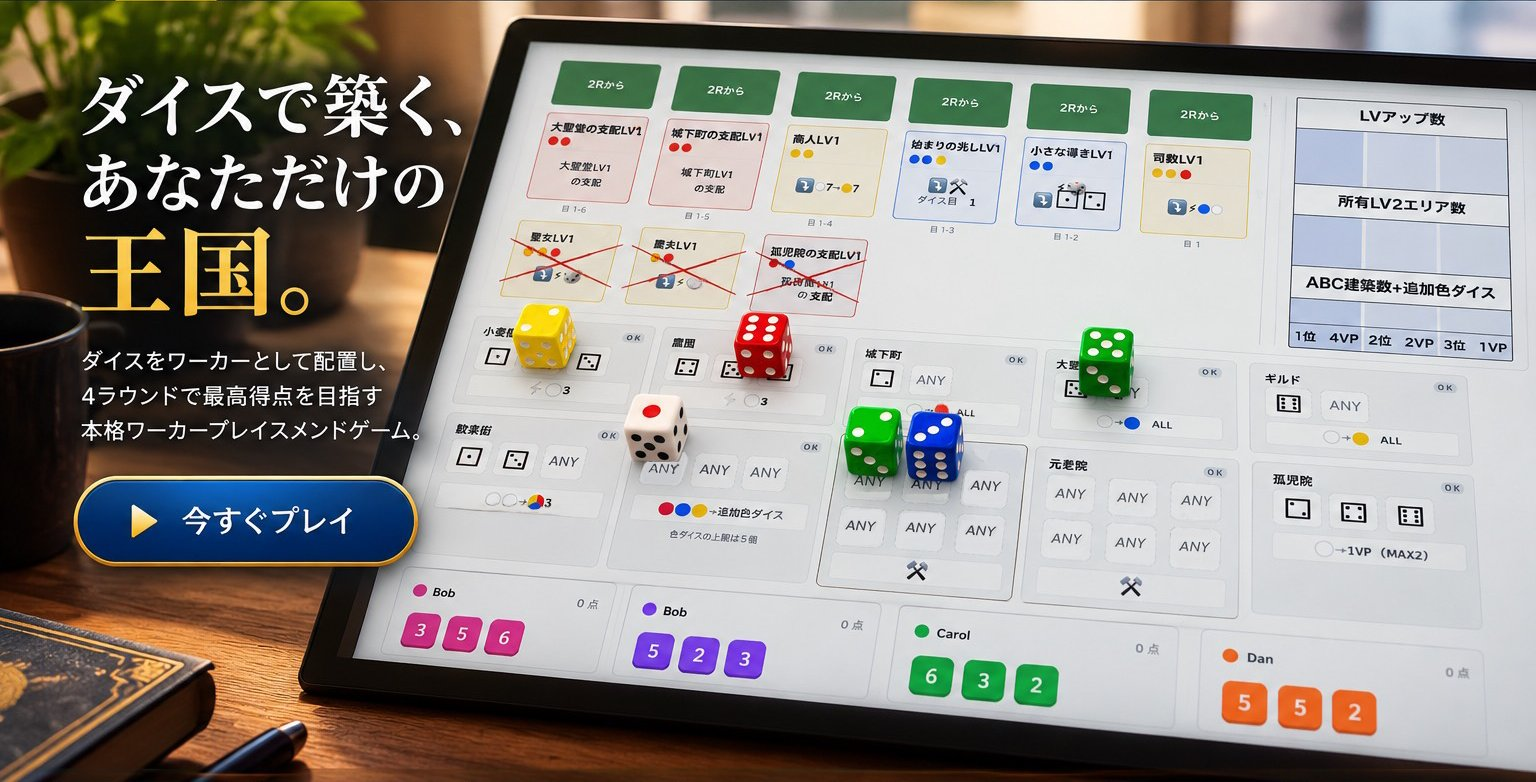
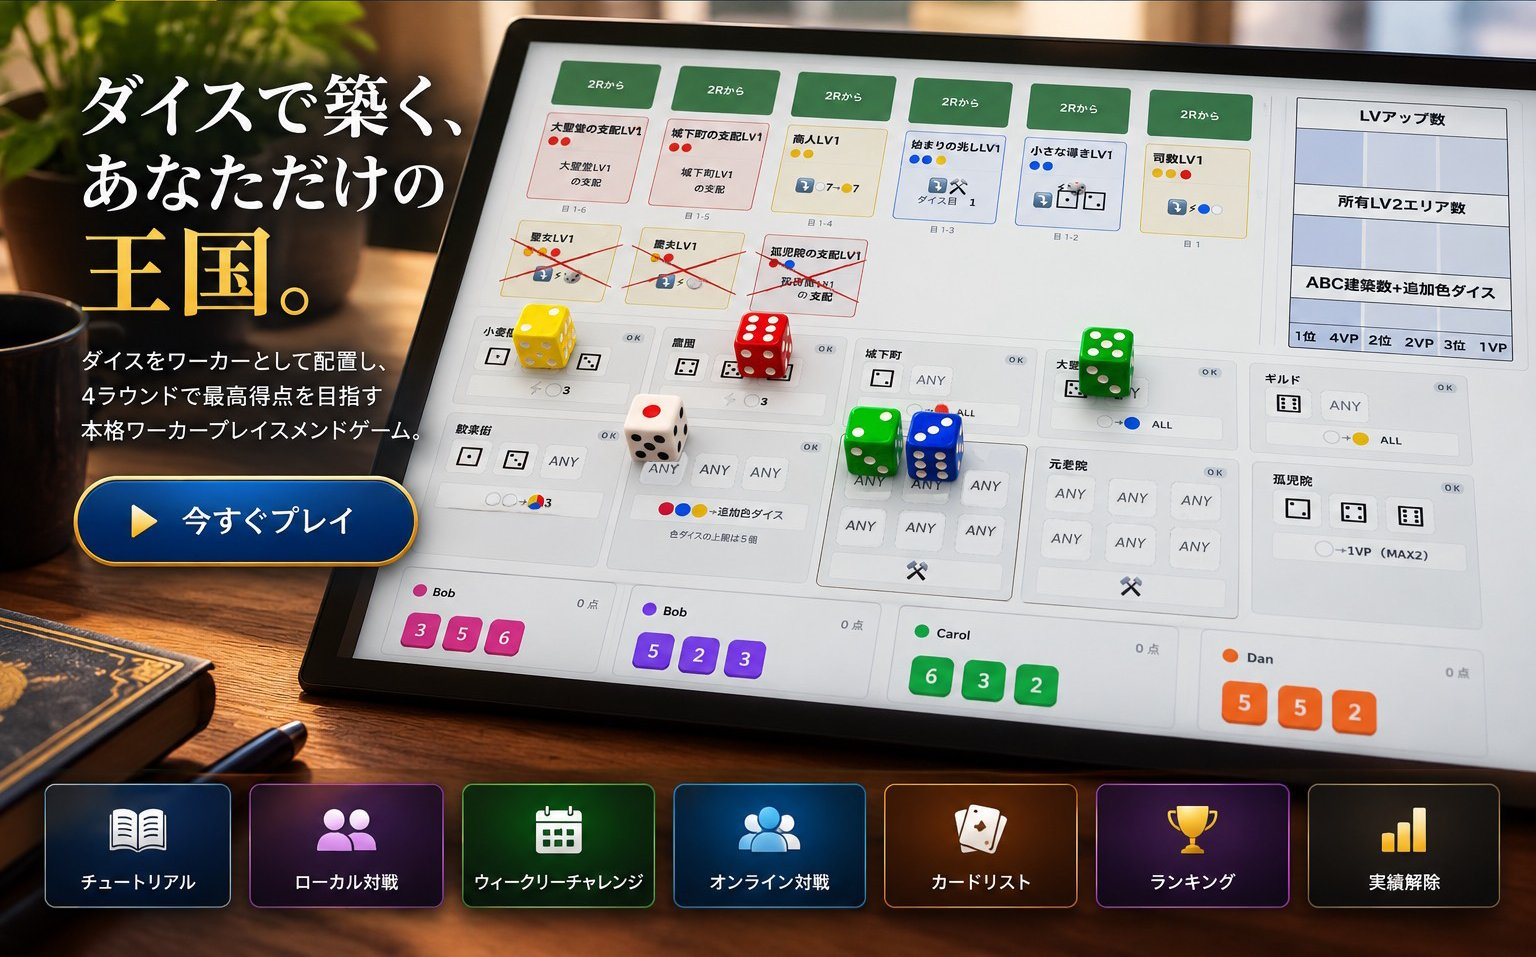
入口バナーを元画像まるごと表示+全画面化に変更
per user方針転換: "それでお願い"(元画像の7ボタンすべてに透明ホットスポットを重ねる方式) →
"青い四角のボタンはいらない"(独自スタイルの別ボタン行は撤去) → "画像を全画面にすることはできますか"

- assets/entry-banner-hero.jpgを切り抜き版から元画像(1536x957、下部のボタン行込み)に差し替え
- 独自の青い2x2グリッド+小ボタン行(#entry-banner__primary/__secondary)を削除
- 画像に描かれた「今すぐプレイ」CTA+7ボタン(チュートリアル/ローカル対戦/ウィークリーチャレンジ/
  オンライン対戦/カードリスト/ランキング/実績解除)それぞれの実ピクセル位置に透明な本物のボタンを
  %換算で重ねる(座標はPillowでグリッド線を引いた画像を目視して特定)
- バナー全体の余白をゼロにし、画像をアスペクト比維持のまま画面いっぱい(max-width/height:100vw/100vh)
  に拡大

diff --git a/index.html b/index.html
@@ -16,31 +16,25 @@
        したい") -- #app/#weekly-seat-pickerと同じ「画面を丸ごと差し替える」パターン(main.jsのrender()
        冒頭、entryBannerDismissedの分岐参照)。真っさらな新規ロードのときだけ表示し、チュートリアル/
        ウィークリーチャレンジ/テストゲームのpendingフラグ経由でのreload後や、一度バナーを閉じた後は
-       スキップする。4つの大きいボタン(チュートリアル/ローカル対戦/オンライン対戦/ウィークリーチャレンジ)
-       + 下に小さく3つ(カードリスト/ランキング/実績記録、ゲーム中のボタン列と同じ処理を共有)。 -->
+       スキップする。
+       2026-10-05、per user提供のトップ画像(S__35725317)にまるごと差し替え(「青い四角のボタンはいらない」
+       per user -- 独自スタイルのボタン行は撤去): 画像自体に「今すぐプレイ」CTA+7つのボタン
+       (チュートリアル/ローカル対戦/ウィークリーチャレンジ/オンライン対戦/カードリスト/ランキング/
+       実績解除)が絵として描かれており、assets/entry-banner-hero.jpgはそれを含む元画像(1536x957)その
+       まま。見た目のボタンの上に透明な実ボタンを8個、それぞれの実ピクセル位置を%換算して重ねる
+       (座標の出し方・各ボタンの実際の処理はmain.jsの配線コメント参照)。 -->
   <div id="entry-banner">
     <div id="entry-banner__box">
-      <!-- トップ画像 (2026-10-05, per user提供: "トップ画像用意しました" + "下のボタンを押すとチュートリアル
-           やローカル対戦に飛ぶ" + "今すぐプレイはローカル対戦に飛ぶ") -- 元画像(S__35725317)は下部に見た目
-           だけのボタン行も含んでいたが、あれは実際には押せない装飾だったため、assets/entry-banner-hero.jpg
-           はそのボタン行(y>=782px)を切り落とした上部(タブレット写真+見出し+CTA部分)だけ。画像に焼き込み
-           済みの「今すぐプレイ」ボタンの上には透明な実ボタン(#entry-banner-hero-cta)を重ね、ローカル対戦
-           と同じ処理につなぐ(元画像1536x957中の座標(75,476)-(414,563)を%換算、CSS参照)。それ以外の実際に
-           押せるボタンはこの画像の下の#entry-banner__primary/__secondary(既存のまま)。 -->
       <div id="entry-banner__hero-wrap">
         <img id="entry-banner__hero" src="assets/entry-banner-hero.jpg" alt="ダイスで築く、あなただけの王国。ダイスをワーカーとして配置し、4ラウンドで最高得点を目指す本格ワーカープレイスメントゲーム。">
-        <button type="button" id="entry-banner-hero-cta" aria-label="今すぐプレイ"></button>
-      </div>
-      <div id="entry-banner__primary">
-        <button type="button" class="entry-banner__primary-button" id="entry-banner-tutorial-button">チュートリアル</button>
-        <button type="button" class="entry-banner__primary-button" id="entry-banner-local-button">ローカル対戦</button>
-        <button type="button" class="entry-banner__primary-button" id="entry-banner-online-button">オンライン対戦</button>
-        <button type="button" class="entry-banner__primary-button" id="entry-banner-weekly-button">ウィークリーチャレンジ</button>
-      </div>
-      <div id="entry-banner__secondary">
-        <button type="button" class="entry-banner__secondary-button" id="entry-banner-cardlist-button">カードリスト</button>
-        <button type="button" class="entry-banner__secondary-button" id="entry-banner-ranking-button">ランキング</button>
-        <button type="button" class="entry-banner__secondary-button" id="entry-banner-achievement-button">実績記録</button>
+        <button type="button" class="entry-banner__hotspot" id="entry-banner-hero-cta" aria-label="今すぐプレイ"></button>
+        <button type="button" class="entry-banner__hotspot" id="entry-banner-tutorial-button" aria-label="チュートリアル"></button>
+        <button type="button" class="entry-banner__hotspot" id="entry-banner-local-button" aria-label="ローカル対戦"></button>
+        <button type="button" class="entry-banner__hotspot" id="entry-banner-weekly-button" aria-label="ウィークリーチャレンジ"></button>
+        <button type="button" class="entry-banner__hotspot" id="entry-banner-online-button" aria-label="オンライン対戦"></button>
+        <button type="button" class="entry-banner__hotspot" id="entry-banner-cardlist-button" aria-label="カードリスト"></button>
+        <button type="button" class="entry-banner__hotspot" id="entry-banner-ranking-button" aria-label="ランキング"></button>
+        <button type="button" class="entry-banner__hotspot" id="entry-banner-achievement-button" aria-label="実績記録"></button>
       </div>
     </div>
   </div>

diff --git a/style.css b/style.css
@@ -4576,7 +4576,9 @@ body.tutorial-mode .change-highlight {
   align-items: center;
   justify-content: center;
   background: var(--bg);
-  padding: 16px;
+  /* 2026-10-05, per user request: "画像を全画面にすることはできますか" -- 周囲の余白をゼロにして、
+     画像を画面いっぱいに広げる(下の#entry-banner__heroのmax-width/max-height:100vw/100vh参照)。 */
+  padding: 0;
 }
 
 /* 2026-10-04, same bug class as #app[hidden]/#weekly-seat-picker[hidden] above (see that rule's own doc):
@@ -4593,78 +4595,67 @@ body.tutorial-mode .change-highlight {
 
 #entry-banner__box {
   width: 100%;
-  /* 2026-10-05: 480px(テキスト見出し時代)から拡大 -- トップ画像(1536x782、アスペクト比約1.96:1)を
-     窮屈にせず見せるため。 */
-  max-width: 900px;
+  height: 100%;
   display: flex;
   flex-direction: column;
-  align-items: stretch;
-  gap: 20px;
+  align-items: center;
+  justify-content: center;
 }
 
-/* トップ画像 (2026-10-05, per user提供) -- index.htmlの#entry-banner__hero-wrap/__hero/hero-ctaの
-   own doc参照。画像は幅いっぱいに responsive、透明な#entry-banner-hero-ctaを画像内の「今すぐプレイ」
-   ボタンの実ピクセル位置(元画像1536x957中の(75,476)-(414,563))に%換算で重ねる。 */
+/* トップ画像 (2026-10-05, per user提供、"青い四角のボタンはいらない"per user訂正後の最終形) --
+   index.htmlの#entry-banner__hero-wrap/__hero/各.entry-banner__hotspotの own doc参照。画像自体に
+   「今すぐプレイ」CTA+7つのボタンが絵として描かれているので、それぞれの実ピクセル位置(元画像
+   1536x957基準)を%換算した透明ボタンを重ねる。座標はassets/entry-banner-hero.jpgの元になった
+   PNGにPillowでグリッド線を引いて目視で特定したもの(ボタン行はy:783-955、各ボタンはx方向に
+   ほぼ等間隔で幅199px・間隔8px、左端44pxから)。 */
 #entry-banner__hero-wrap {
   position: relative;
   line-height: 0;
 }
 
 #entry-banner__hero {
-  width: 100%;
-  height: auto;
+  /* アスペクト比(1536x957)を保ったまま、画面に収まる最大サイズまで拡大 -- object-fit:coverで切り抜く
+     とホットスポットの%座標がずれるため、widthとheightどちらも100vw/100vhを上限にしてcontain相当の
+     挙動にする(.entry-banner__hotspotの%位置は常にこの画像自身のレンダリングサイズを基準にできる)。 */
   display: block;
-  border-radius: var(--radius-lg);
-  box-shadow: var(--shadow-lg);
+  width: auto;
+  height: auto;
+  max-width: 100vw;
+  max-height: 100vh;
 }
 
-#entry-banner-hero-cta {
+.entry-banner__hotspot {
   position: absolute;
-  left: 4.88%;
-  top: 60.87%;
-  width: 22.07%;
-  height: 11.13%;
   background: transparent;
   border: none;
   padding: 0;
   cursor: pointer;
 }
 
-/* 2026-10-04, per user request: "縦に4つ並べるのではなく四角く並べたい" -- 縦積みから2x2グリッドへ。 */
-#entry-banner__primary {
-  display: grid;
-  grid-template-columns: 1fr 1fr;
-  gap: 12px;
+/* 今すぐプレイ CTA -- 元画像中の(75,476)-(414,563)を%換算。 */
+#entry-banner-hero-cta {
+  left: 4.88%;
+  top: 49.74%;
+  width: 22.07%;
+  height: 9.09%;
 }
 
-.entry-banner__primary-button {
-  aspect-ratio: 1 / 1;
-  display: flex;
-  align-items: center;
-  justify-content: center;
-  text-align: center;
-  padding: 12px;
-  font-size: 18px;
-  font-weight: 700;
-  color: #fff;
-  background: var(--accent);
-  border: none;
-  border-radius: var(--radius-lg);
-  box-shadow: var(--shadow-lg);
+/* 下部の7ボタン行 -- 全ボタン共通でtop:81.82%/height:17.97%/width:12.96%、leftだけ等間隔にずらす。 */
+#entry-banner-tutorial-button,
+#entry-banner-local-button,
+#entry-banner-weekly-button,
+#entry-banner-online-button,
+#entry-banner-cardlist-button,
+#entry-banner-ranking-button,
+#entry-banner-achievement-button {
+  top: 81.82%;
+  height: 17.97%;
+  width: 12.96%;
 }
-
-#entry-banner__secondary {
-  display: flex;
-  justify-content: center;
-  gap: 10px;
-  flex-wrap: wrap;
-}
-
-.entry-banner__secondary-button {
-  padding: 8px 14px;
-  font-size: 13px;
-  color: var(--text-muted);
-  background: var(--surface);
-  border: 1px solid var(--border);
-  border-radius: var(--radius-sm);
-}
+#entry-banner-tutorial-button { left: 2.86%; }
+#entry-banner-local-button { left: 16.34%; }
+#entry-banner-weekly-button { left: 29.82%; }
+#entry-banner-online-button { left: 43.29%; }
+#entry-banner-cardlist-button { left: 56.77%; }
+#entry-banner-ranking-button { left: 70.25%; }
+#entry-banner-achievement-button { left: 83.72%; }
